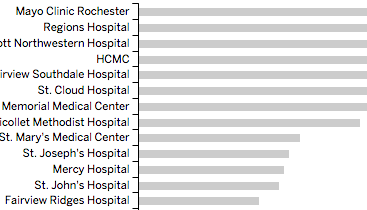
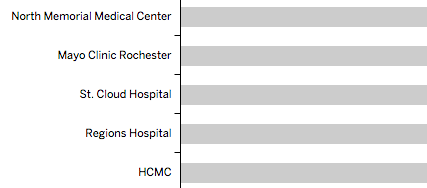
adverse events fixes

diff --git a/20160218-adverse_events/index.html b/20160218-adverse_events/index.html
@@ -29,11 +29,11 @@
 <body>
 <div id="wrapper">
 
-<div class="chartTitle">Hospitals with 10+ adverse events 2005-2016</div>
+<div class="chartTitle">Hospitals with 5+ adverse events 2015</div>
 <div id="chart"></div>
 
 <div class="chartTitle">Database of adverse hospital events 2005-2016</div>
-<table width="100%" cellspacing="0" class="display compact responsive nowrap" id="events"><thead><tr><th>Year</th><th>Hospital</th><th>City</th><th>Event</th><th>Type</th></tr></thead></table>
+<table width="100%" cellspacing="0" class="display compact responsive nowrap" id="events"><thead><tr><th>Year</th><th>Hospital</th><th>City</th><th>Event</th><th>Victims</th><th>Deaths</th><th>Injuries</th><th>Type</th></tr></thead></table>
 
 <a href='https://docs.google.com/spreadsheets/d/1jvziIFqm2fkcTgpigumWV2aM8XBPy6SjxE5_pAt9BII/pub?output=csv' target='new_'><button class='downloadButton'>&#9660; Download Data</button></a>
 
@@ -132,6 +132,9 @@ var chartDecade = c3.generate({
                     { "mDataProp": "gsx$hospital.$t" },
                     { "mDataProp": "gsx$city.$t" },
                     { "mDataProp": "gsx$category.$t" },
+                    { "mDataProp": "gsx$number.$t" },
+                    { "mDataProp": "gsx$death.$t" },
+                    { "mDataProp": "gsx$injury.$t" },
                     { "mDataProp": "gsx$catcode.$t" },
                             ]
             } );

diff --git a/20160218-adverse_events/index.php b/20160218-adverse_events/index.php
@@ -29,12 +29,11 @@
 <body>
 <div id="wrapper">
 
-<div class="chartTitle">Hospitals with 10+ adverse events 2005-2016</div>
+<div class="chartTitle">Hospitals with 6+ adverse events 2015</div>
 <div id="chart"></div>
 
 <div class="chartTitle">Database of adverse hospital events 2005-2016</div>
-<table width="100%" cellspacing="0" class="display compact responsive nowrap" id="events"><thead><tr><th>Year</th><th>Hospital</th><th>City</th><th>Event</th><th>Type</th></tr></thead></table>
-
+<table width="100%" cellspacing="0" class="display compact responsive nowrap" id="events"><thead><tr><th>Year</th><th>Hospital</th><th>City</th><th>Event</th><th>Victims</th><th>Deaths</th><th>Injuries</th><th>Type</th></tr></thead></table>
 <a href='https://docs.google.com/spreadsheets/d/1jvziIFqm2fkcTgpigumWV2aM8XBPy6SjxE5_pAt9BII/pub?output=csv' target='new_'><button class='downloadButton'>&#9660; Download Data</button></a>
 
   </div>
@@ -143,6 +142,9 @@ var chartDecade = c3.generate({
                     { "mDataProp": "gsx$hospital.$t" },
                     { "mDataProp": "gsx$city.$t" },
                     { "mDataProp": "gsx$category.$t" },
+                    { "mDataProp": "gsx$number.$t" },
+                    { "mDataProp": "gsx$death.$t" },
+                    { "mDataProp": "gsx$injury.$t" },
                     { "mDataProp": "gsx$catcode.$t" },
                             ]
             } );
